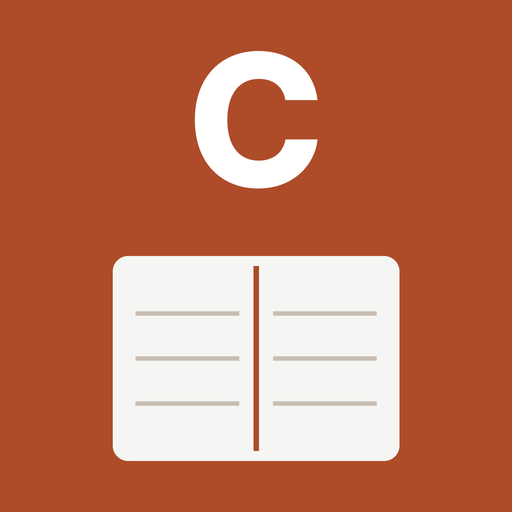
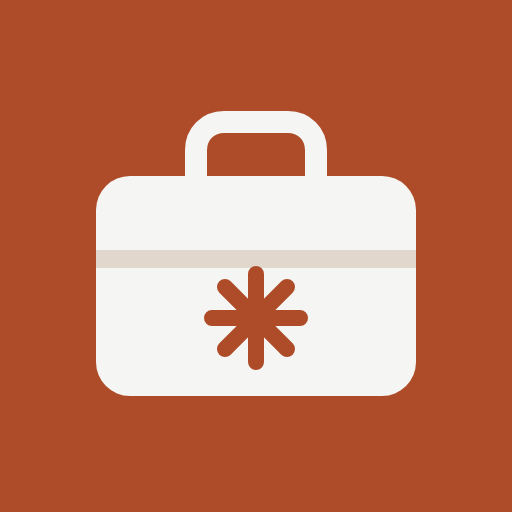
Книга: новая иконка приложения (портфель с искрой)
Claude-Session: https://claude.ai/code/session_01PrJN9HGzceweAP4YJhZkcm

Changed region(s): [[0.1875, 0.0938, 0.8125, 0.9062]]

diff --git a/book/src/icons/icons.html b/book/src/icons/icons.html
@@ -1,0 +1,46 @@
+<!doctype html><html><head><meta charset="utf-8"><style>
+body{margin:0;background:#E9E6E0;font-family:Inter,sans-serif}
+.grid{display:grid;grid-template-columns:repeat(3,300px);gap:40px 50px;padding:40px 50px}
+.cell{display:flex;flex-direction:column;align-items:center;gap:14px}
+.ic{width:220px;height:220px;border-radius:50px;overflow:hidden;box-shadow:0 6px 20px rgba(0,0,0,.18)}
+.ic svg{display:block;width:100%;height:100%}
+.n{font:700 22px Inter;color:#1F1E1D}.d{font:400 15px Inter;color:#5A6570;text-align:center;max-width:280px;line-height:1.35}
+</style></head><body><div class="grid">
+
+<div class="cell"><div class="ic" id="i1"><svg viewBox="0 0 512 512"><rect width="512" height="512" fill="#18222B"/>
+<path d="M132 150h120c22 0 36 12 36 30v200c0-16-14-26-34-26H132z" fill="#F5F6F3"/><path d="M380 150H292c-4 0 -4 0-4 30v200c0-16 14-26 34-26h58z" fill="#E7E2D8"/>
+<path d="M318 150v120l22-16 22 16V150z" fill="#C96442"/>
+<rect x="160" y="200" width="96" height="10" rx="5" fill="#C9C2B6"/><rect x="160" y="232" width="80" height="10" rx="5" fill="#C9C2B6"/><rect x="160" y="264" width="96" height="10" rx="5" fill="#C9C2B6"/><rect x="160" y="296" width="70" height="10" rx="5" fill="#C9C2B6"/></svg></div>
+<div class="n">1. Книга с закладкой</div><div class="d">Тёмный фон, открытая книга, терракотовая закладка. Строго и «по-деловому»</div></div>
+
+<div class="cell"><div class="ic" id="i2"><svg viewBox="0 0 512 512"><rect width="512" height="512" fill="#AE4C29"/>
+<rect x="96" y="176" width="320" height="220" rx="34" fill="#F5F6F3"/><path d="M196 176v-26c0-16 12-28 28-28h64c16 0 28 12 28 28v26" fill="none" stroke="#F5F6F3" stroke-width="22"/>
+<rect x="96" y="250" width="320" height="18" fill="#E2D7CC"/>
+<g transform="translate(256 318)" stroke="#AE4C29" stroke-width="16" stroke-linecap="round"><path d="M0-44V44M-44 0H44M-31-31L31 31M31-31L-31 31"/></g></svg></div>
+<div class="n">2. Портфель с искрой</div><div class="d">Деловой портфель и «искра» ИИ: работа + Claude. Хорошо читается мелко</div></div>
+
+<div class="cell"><div class="ic" id="i3"><svg viewBox="0 0 512 512"><rect width="512" height="512" fill="#1C5B5F"/>
+<circle cx="230" cy="236" r="126" fill="none" stroke="#DFEBEA" stroke-width="18"/><ellipse cx="230" cy="236" rx="56" ry="126" fill="none" stroke="#DFEBEA" stroke-width="14"/><path d="M104 236h252M120 176h220M120 296h220" stroke="#DFEBEA" stroke-width="12"/>
+<path d="M300 290h120c14 0 24 10 24 24v62c0 14-10 24-24 24h-58l-38 32v-32h-24c-14 0-24-10-24-24v-62c0-14 10-24 24-24z" fill="#E2906A"/>
+<circle cx="330" cy="345" r="10" fill="#1C5B5F"/><circle cx="362" cy="345" r="10" fill="#1C5B5F"/><circle cx="394" cy="345" r="10" fill="#1C5B5F"/></svg></div>
+<div class="n">3. Глобус и диалог</div><div class="d">Зарубежные продажи: глобус и реплика в чате. Бирюзовый вместо терракоты</div></div>
+
+<div class="cell"><div class="ic" id="i4"><svg viewBox="0 0 512 512"><rect width="512" height="512" fill="#F5F1EA"/>
+<rect x="86" y="120" width="340" height="272" rx="36" fill="#18222B"/><path d="M146 210l56 46-56 46" fill="none" stroke="#E2906A" stroke-width="26" stroke-linecap="round" stroke-linejoin="round"/>
+<rect x="232" y="290" width="112" height="24" rx="12" fill="#F5F6F3"/></svg></div>
+<div class="n">4. Промпт «>_»</div><div class="d">Окно с курсором: «пишешь запрос — получаешь результат». Светлый фон</div></div>
+
+<div class="cell"><div class="ic" id="i5"><svg viewBox="0 0 512 512"><defs><linearGradient id="g" x1="0" y1="0" x2="1" y2="1"><stop offset="0" stop-color="#C96442"/><stop offset="1" stop-color="#8E3A1E"/></linearGradient></defs><rect width="512" height="512" fill="url(#g)"/>
+<text x="256" y="312" text-anchor="middle" font-family="Literata, Georgia, serif" font-weight="700" font-size="250" fill="#FFF6EF">Cв</text>
+<rect x="150" y="360" width="212" height="12" rx="6" fill="#FFF6EF" opacity=".7"/></svg></div>
+<div class="n">5. Монограмма «Св»</div><div class="d">«Claude в работе» буквами, книжный шрифт, тёплый градиент</div></div>
+
+<div class="cell"><div class="ic" id="i6"><svg viewBox="0 0 512 512"><rect width="512" height="512" fill="#F5F6F3"/>
+<rect x="120" y="96" width="272" height="330" rx="26" fill="#FFFFFF" stroke="#18222B" stroke-width="16"/>
+<path d="M170 176l20 20 36-40" fill="none" stroke="#2E6B45" stroke-width="16" stroke-linecap="round" stroke-linejoin="round"/><rect x="246" y="174" width="100" height="14" rx="7" fill="#9BA6AE"/>
+<path d="M170 256l20 20 36-40" fill="none" stroke="#2E6B45" stroke-width="16" stroke-linecap="round" stroke-linejoin="round"/><rect x="246" y="254" width="100" height="14" rx="7" fill="#9BA6AE"/>
+<rect x="166" y="320" width="50" height="40" rx="8" fill="none" stroke="#9BA6AE" stroke-width="12"/><rect x="246" y="334" width="80" height="14" rx="7" fill="#9BA6AE"/>
+<circle cx="372" cy="400" r="66" fill="#AE4C29"/><g transform="translate(372 400)" stroke="#fff" stroke-width="12" stroke-linecap="round"><path d="M0-30V30M-30 0H30M-21-21L21 21M21-21L-21 21"/></g></svg></div>
+<div class="n">6. Чек-лист с искрой</div><div class="d">Задачи выполнены с помощью ИИ: практичная книга-инструмент</div></div>
+
+</div></body></html>

diff --git a/book/sw.js b/book/sw.js
@@ -1,4 +1,4 @@
-const CACHE="cvr-463f1b4f62";const PRECACHE=["./", "index.html", "manifest.webmanifest", "icon-192.png", "icon-512.png", "apple-touch-icon.png", "fonts/GolosText-cyrillic-721d01.woff2", "fonts/GolosText-latin-65c68b.woff2", "fonts/GolosText-latin-ext-52fc06.woff2", "fonts/JetBrainsMono-cyrillic-ffa6bb.woff2", "fonts/JetBrainsMono-latin-1cd702.woff2", "fonts/JetBrainsMono-latin-ext-76306e.woff2", "fonts/Literata-cyrillic-7b698c.woff2", "fonts/Literata-cyrillic-afbabc.woff2", "fonts/Literata-latin-4afe67.woff2", "fonts/Literata-latin-590e6d.woff2", "fonts/Literata-latin-ext-3f218c.woff2", "fonts/Literata-latin-ext-6b1988.woff2", "fonts/fonts.css", "img/fig-1-1.png", "img/fig-1-2.png", "img/fig-1-3.png", "img/fig-1-4.png", "img/fig-1-5.png", "img/fig-1-6.png", "img/fig-1-7.png", "img/fig-1-8.png", "img/fig-2-1.png", "img/fig-2-2.png", "img/fig-2-3.png", "img/fig-2-4.png", "img/fig-2-5.png", "img/fig-2-6.png", "img/fig-2-7.png", "img/fig-2-8.png", "img/fig-3-1.png", "img/fig-3-2.png", "img/fig-3-3.png", "img/fig-3-4.png", "img/fig-3-5.png", "img/fig-3-6.png", "img/fig-3-7.png", "img/fig-3-8.png", "img/fig-4-1.png", "img/fig-4-2.png", "img/fig-4-3.png", "img/fig-4-4.png", "img/fig-4-5.png", "img/fig-4-6.png", "img/fig-4-7.png", "img/fig-4-8.png", "img/fig-5-1.png", "img/fig-5-2.png", "img/fig-5-3.png", "img/fig-5-4.png", "img/fig-5-5.png", "img/fig-5-6.png", "img/fig-5-7.png", "img/fig-5-8.png", "img/fig-6-1.png", "img/fig-6-2.png", "img/fig-6-3.png", "img/fig-6-4.png", "img/fig-6-5.png", "img/fig-6-6.png", "img/fig-6-7.png", "img/fig-6-8.png", "img/fig-7-1.png", "img/fig-7-2.png", "img/fig-7-3.png", "img/fig-7-4.png", "img/fig-7-5.png", "img/fig-7-6.png", "img/fig-7-7.png", "img/fig-7-8.png"];
+const CACHE="cvr-e06df6ca3b";const PRECACHE=["./", "index.html", "manifest.webmanifest", "icon-192.png", "icon-512.png", "apple-touch-icon.png", "fonts/GolosText-cyrillic-721d01.woff2", "fonts/GolosText-latin-65c68b.woff2", "fonts/GolosText-latin-ext-52fc06.woff2", "fonts/JetBrainsMono-cyrillic-ffa6bb.woff2", "fonts/JetBrainsMono-latin-1cd702.woff2", "fonts/JetBrainsMono-latin-ext-76306e.woff2", "fonts/Literata-cyrillic-7b698c.woff2", "fonts/Literata-cyrillic-afbabc.woff2", "fonts/Literata-latin-4afe67.woff2", "fonts/Literata-latin-590e6d.woff2", "fonts/Literata-latin-ext-3f218c.woff2", "fonts/Literata-latin-ext-6b1988.woff2", "fonts/fonts.css", "img/fig-1-1.png", "img/fig-1-2.png", "img/fig-1-3.png", "img/fig-1-4.png", "img/fig-1-5.png", "img/fig-1-6.png", "img/fig-1-7.png", "img/fig-1-8.png", "img/fig-2-1.png", "img/fig-2-2.png", "img/fig-2-3.png", "img/fig-2-4.png", "img/fig-2-5.png", "img/fig-2-6.png", "img/fig-2-7.png", "img/fig-2-8.png", "img/fig-3-1.png", "img/fig-3-2.png", "img/fig-3-3.png", "img/fig-3-4.png", "img/fig-3-5.png", "img/fig-3-6.png", "img/fig-3-7.png", "img/fig-3-8.png", "img/fig-4-1.png", "img/fig-4-2.png", "img/fig-4-3.png", "img/fig-4-4.png", "img/fig-4-5.png", "img/fig-4-6.png", "img/fig-4-7.png", "img/fig-4-8.png", "img/fig-5-1.png", "img/fig-5-2.png", "img/fig-5-3.png", "img/fig-5-4.png", "img/fig-5-5.png", "img/fig-5-6.png", "img/fig-5-7.png", "img/fig-5-8.png", "img/fig-6-1.png", "img/fig-6-2.png", "img/fig-6-3.png", "img/fig-6-4.png", "img/fig-6-5.png", "img/fig-6-6.png", "img/fig-6-7.png", "img/fig-6-8.png", "img/fig-7-1.png", "img/fig-7-2.png", "img/fig-7-3.png", "img/fig-7-4.png", "img/fig-7-5.png", "img/fig-7-6.png", "img/fig-7-7.png", "img/fig-7-8.png"];
 self.addEventListener("install",e=>{e.waitUntil((async()=>{const c=await caches.open(CACHE);await c.addAll(PRECACHE.slice(0,6));
   const rest=PRECACHE.slice(6);for(let i=0;i<rest.length;i+=8){await Promise.all(rest.slice(i,i+8).map(p=>c.add(p).catch(()=>{})))}
   await self.skipWaiting()})())});

diff --git a/book/index.html b/book/index.html
@@ -277,7 +277,7 @@ dl.gloss dt{font-weight:600;padding-right:18px}
 <body>
 <header class="topbar">
   <button class="iconbtn" id="menuBtn" aria-label="Содержание" aria-controls="toc" aria-expanded="false"><svg width="20" height="20" viewBox="0 0 24 24" fill="none" stroke="currentColor" stroke-width="2" stroke-linecap="round"><path d="M4 7h16M4 12h16M4 17h10"/></svg></button>
-  <a class="brand" href="#top"><span class="brand-mark">C</span><span>Claude <span class="full">в работе</span></span></a>
+  <a class="brand" href="#top"><span class="brand-mark" aria-hidden="true"><svg width="18" height="18" viewBox="80 110 352 300"><rect x="96" y="176" width="320" height="220" rx="34" fill="currentColor"/><path d="M196 176v-26c0-16 12-28 28-28h64c16 0 28 12 28 28v26" fill="none" stroke="currentColor" stroke-width="26"/><g transform="translate(256 300)" stroke="var(--accent)" stroke-width="22" stroke-linecap="round"><path d="M0-48V48M-48 0H48M-34-34L34 34M34-34L-34 34"/></g></svg></span><span>Claude <span class="full">в работе</span></span></a>
   <div class="search" role="search">
     <svg width="17" height="17" viewBox="0 0 24 24" fill="none" stroke="currentColor" stroke-width="2" stroke-linecap="round"><circle cx="11" cy="11" r="7"/><path d="M16.5 16.5L21 21"/></svg>
     <input id="q" type="search" placeholder="Поиск: «Gmail», «отчёт», «Effort»…" autocomplete="off" aria-label="Поиск по книге">

diff --git a/book/print.html b/book/print.html
@@ -271,7 +271,7 @@ dl.gloss dt{font-weight:600;padding-right:18px}
 <body>
 <header class="topbar">
   <button class="iconbtn" id="menuBtn" aria-label="Содержание" aria-controls="toc" aria-expanded="false"><svg width="20" height="20" viewBox="0 0 24 24" fill="none" stroke="currentColor" stroke-width="2" stroke-linecap="round"><path d="M4 7h16M4 12h16M4 17h10"/></svg></button>
-  <a class="brand" href="#top"><span class="brand-mark">C</span><span>Claude <span class="full">в работе</span></span></a>
+  <a class="brand" href="#top"><span class="brand-mark" aria-hidden="true"><svg width="18" height="18" viewBox="80 110 352 300"><rect x="96" y="176" width="320" height="220" rx="34" fill="currentColor"/><path d="M196 176v-26c0-16 12-28 28-28h64c16 0 28 12 28 28v26" fill="none" stroke="currentColor" stroke-width="26"/><g transform="translate(256 300)" stroke="var(--accent)" stroke-width="22" stroke-linecap="round"><path d="M0-48V48M-48 0H48M-34-34L34 34M34-34L-34 34"/></g></svg></span><span>Claude <span class="full">в работе</span></span></a>
   <div class="search" role="search">
     <svg width="17" height="17" viewBox="0 0 24 24" fill="none" stroke="currentColor" stroke-width="2" stroke-linecap="round"><circle cx="11" cy="11" r="7"/><path d="M16.5 16.5L21 21"/></svg>
     <input id="q" type="search" placeholder="Поиск: «Gmail», «отчёт», «Effort»…" autocomplete="off" aria-label="Поиск по книге">

diff --git a/book/src/template.html b/book/src/template.html
@@ -264,7 +264,7 @@ dl.gloss dt{font-weight:600;padding-right:18px}
 
 <header class="topbar">
   <button class="iconbtn" id="menuBtn" aria-label="Содержание" aria-controls="toc" aria-expanded="false"><svg width="20" height="20" viewBox="0 0 24 24" fill="none" stroke="currentColor" stroke-width="2" stroke-linecap="round"><path d="M4 7h16M4 12h16M4 17h10"/></svg></button>
-  <a class="brand" href="#top"><span class="brand-mark">C</span><span>Claude <span class="full">в работе</span></span></a>
+  <a class="brand" href="#top"><span class="brand-mark" aria-hidden="true"><svg width="18" height="18" viewBox="80 110 352 300"><rect x="96" y="176" width="320" height="220" rx="34" fill="currentColor"/><path d="M196 176v-26c0-16 12-28 28-28h64c16 0 28 12 28 28v26" fill="none" stroke="currentColor" stroke-width="26"/><g transform="translate(256 300)" stroke="var(--accent)" stroke-width="22" stroke-linecap="round"><path d="M0-48V48M-48 0H48M-34-34L34 34M34-34L-34 34"/></g></svg></span><span>Claude <span class="full">в работе</span></span></a>
   <div class="search" role="search">
     <svg width="17" height="17" viewBox="0 0 24 24" fill="none" stroke="currentColor" stroke-width="2" stroke-linecap="round"><circle cx="11" cy="11" r="7"/><path d="M16.5 16.5L21 21"/></svg>
     <input id="q" type="search" placeholder="Поиск: «Gmail», «отчёт», «Effort»…" autocomplete="off" aria-label="Поиск по книге">

diff --git a/book/src/icons/one.js b/book/src/icons/one.js
@@ -1,0 +1,8 @@
+const { chromium } = require('playwright'); const fs=require('fs');
+(async()=>{const html=fs.readFileSync(__dirname+'/icons.html','utf8');const svg=html.match(/<div class="ic" id="i2">(<svg[\s\S]*?<\/svg>)/)[1];
+const b=await chromium.launch();
+for(const [sz,name] of [[512,'icon-512.png'],[192,'icon-192.png'],[180,'apple-touch-icon.png']]){
+ const p=await b.newPage({viewport:{width:sz,height:sz}});
+ await p.setContent(`<html><body style="margin:0">${svg.replace('<svg ','<svg width="'+sz+'" height="'+sz+'" ')}</body></html>`);
+ await p.screenshot({path:__dirname+'/../../'+name,clip:{x:0,y:0,width:sz,height:sz}});}
+await b.close();})();

diff --git a/book/src/icons/render.js b/book/src/icons/render.js
@@ -1,0 +1,7 @@
+const { chromium } = require('playwright');
+(async()=>{const b=await chromium.launch();const p=await b.newPage({viewport:{width:1150,height:820},deviceScaleFactor:1});
+await p.goto('file://'+__dirname+'/icons.html');await p.evaluate(()=>document.fonts.ready);await p.waitForTimeout(300);
+await p.screenshot({path:process.argv[2],fullPage:true});
+for(let i=1;i<=6;i++){const e=await p.$('#i'+i);await e.evaluate(el=>{el.style.borderRadius='0';el.style.boxShadow='none'});}
+for(let i=1;i<=6;i++){const e=await p.$('#i'+i); await e.screenshot({path:__dirname+'/opt'+i+'.png'});}
+await b.close();})();

diff --git a/book/src/build.py b/book/src/build.py
@@ -137,7 +137,7 @@ def main():
     imgs = sorted(p.name for p in (ROOT / 'img').glob('*.png'))
     pre = pre_list
     h = hashlib.sha1(full.encode()) 
-    for n in pre_list[6:]: h.update((ROOT / n).read_bytes())
+    for n in pre_list[2:]: h.update((ROOT / n).read_bytes())
     sw = (SRC / 'sw-template.js').read_text(encoding='utf-8').replace('__CACHE__', 'cvr-' + h.hexdigest()[:10]).replace('__PRECACHE__', json.dumps(pre))
     (ROOT / 'sw.js').write_text(sw, encoding='utf-8')
     p2 = out[False][0]
